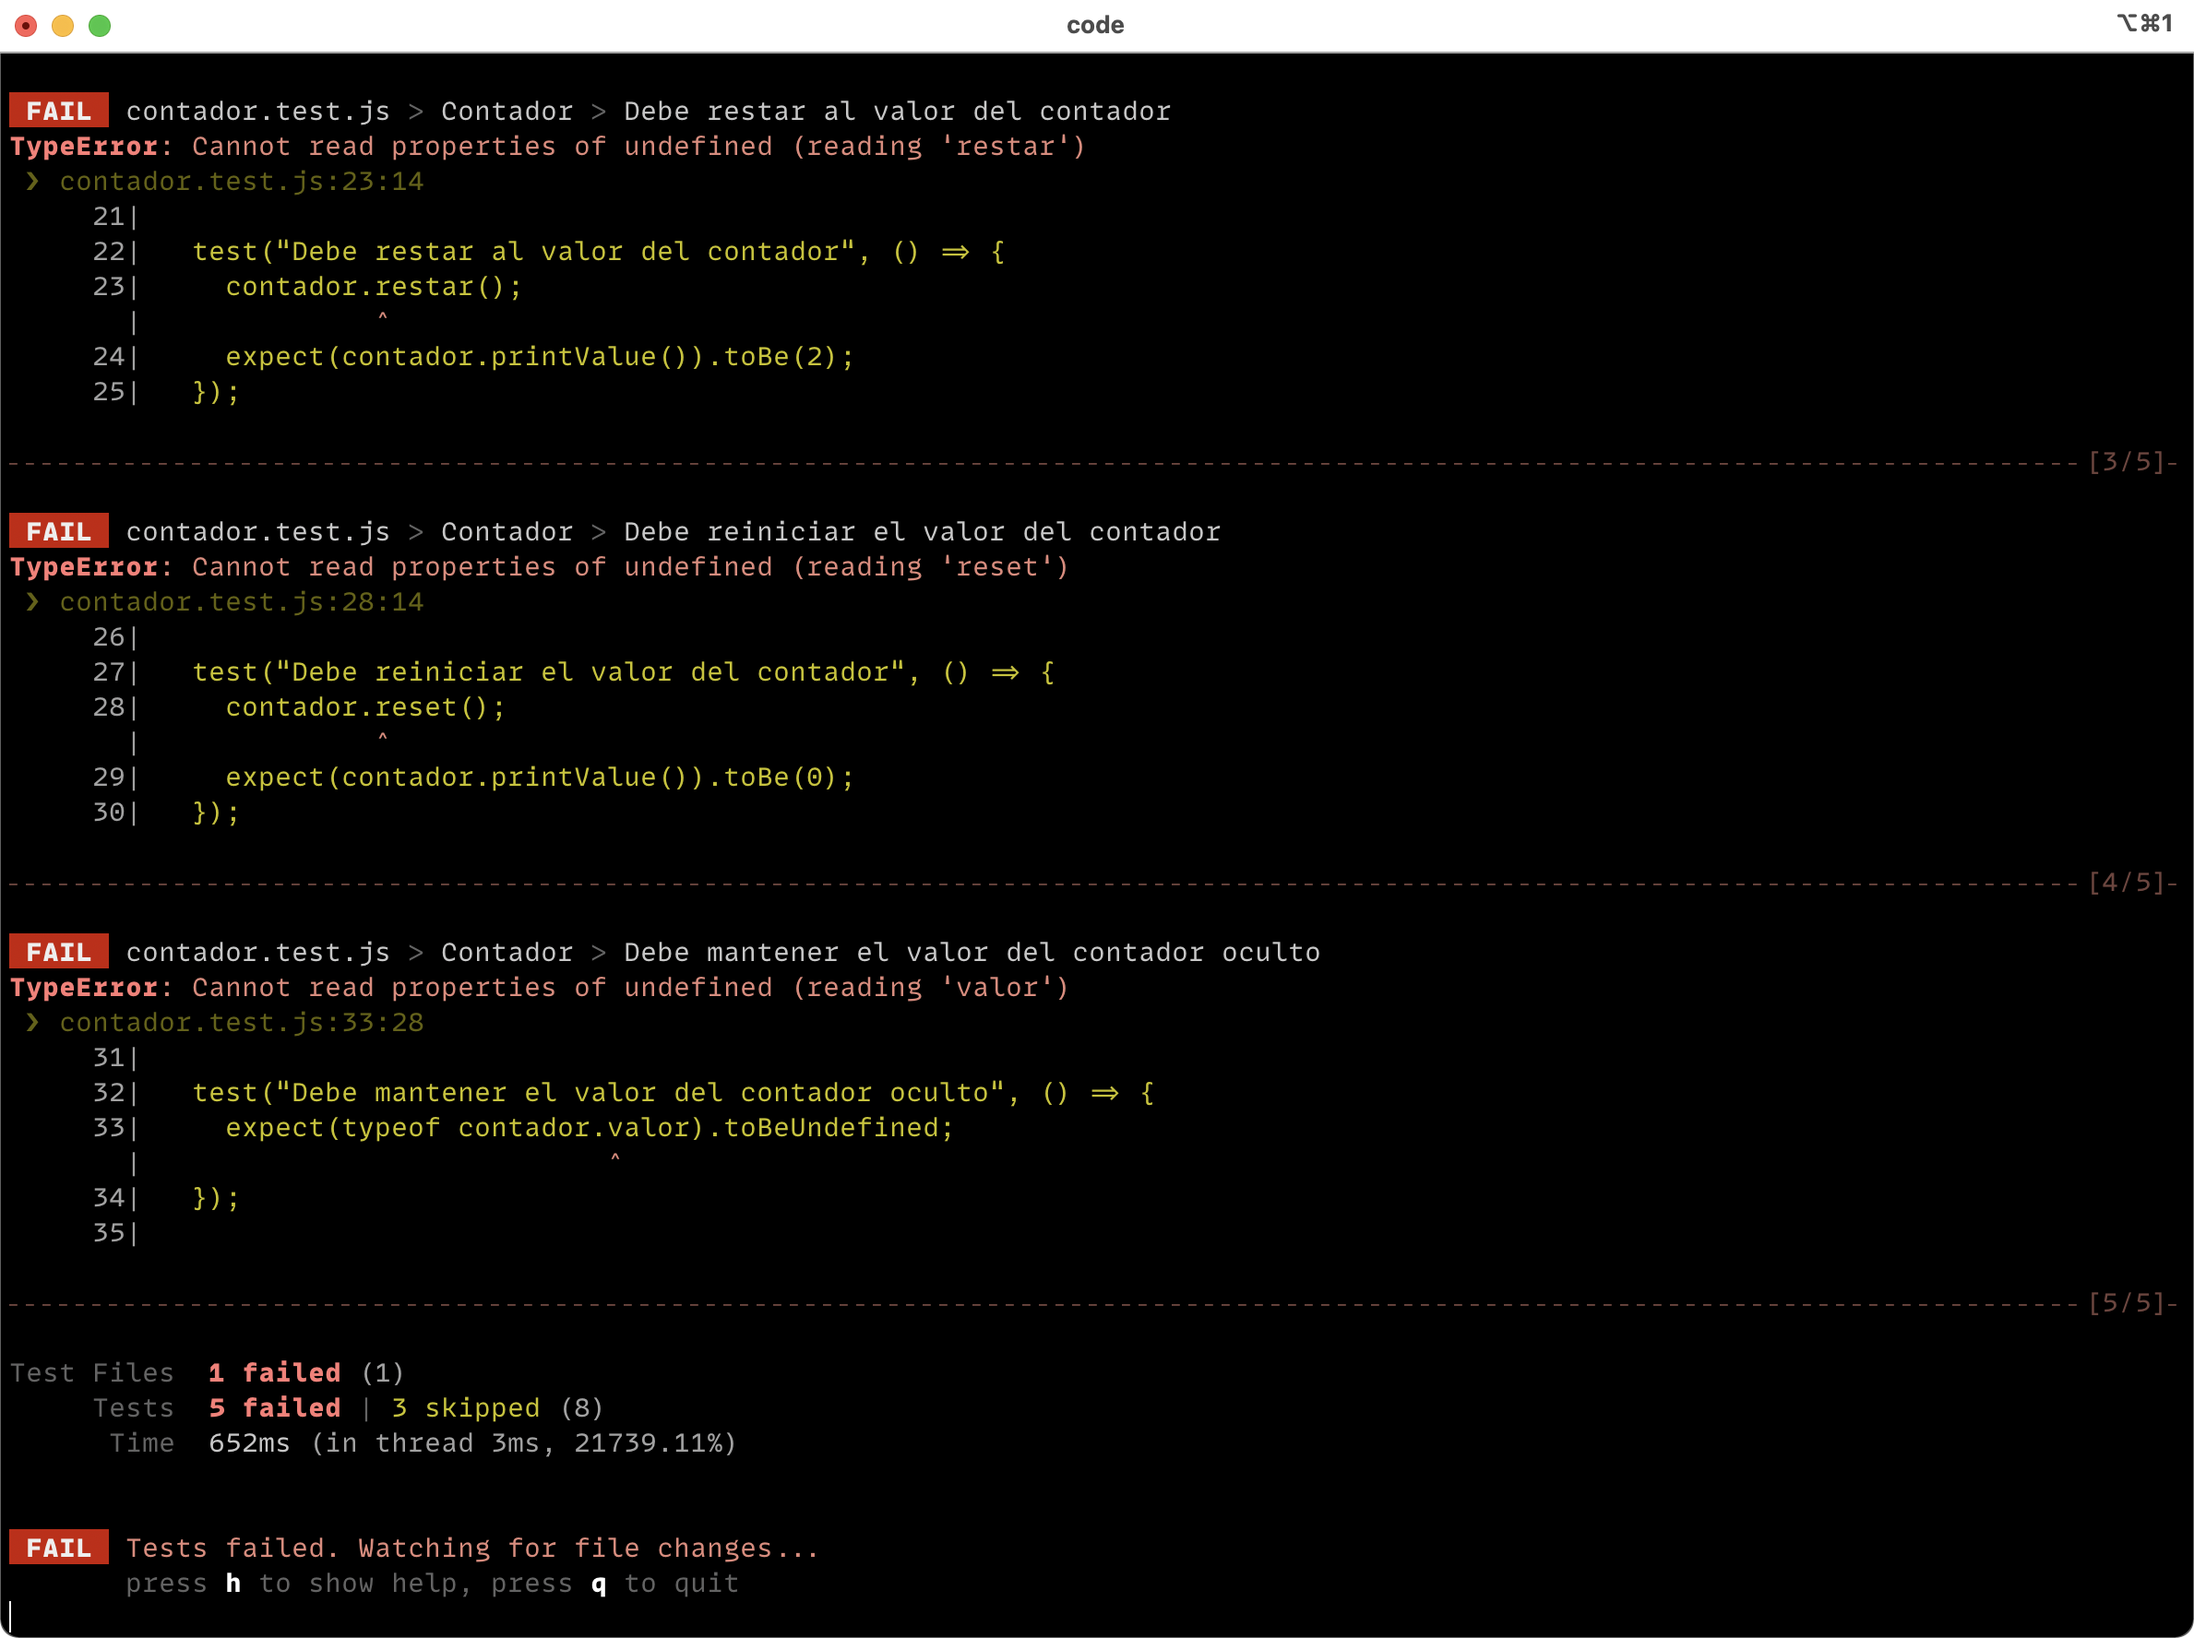
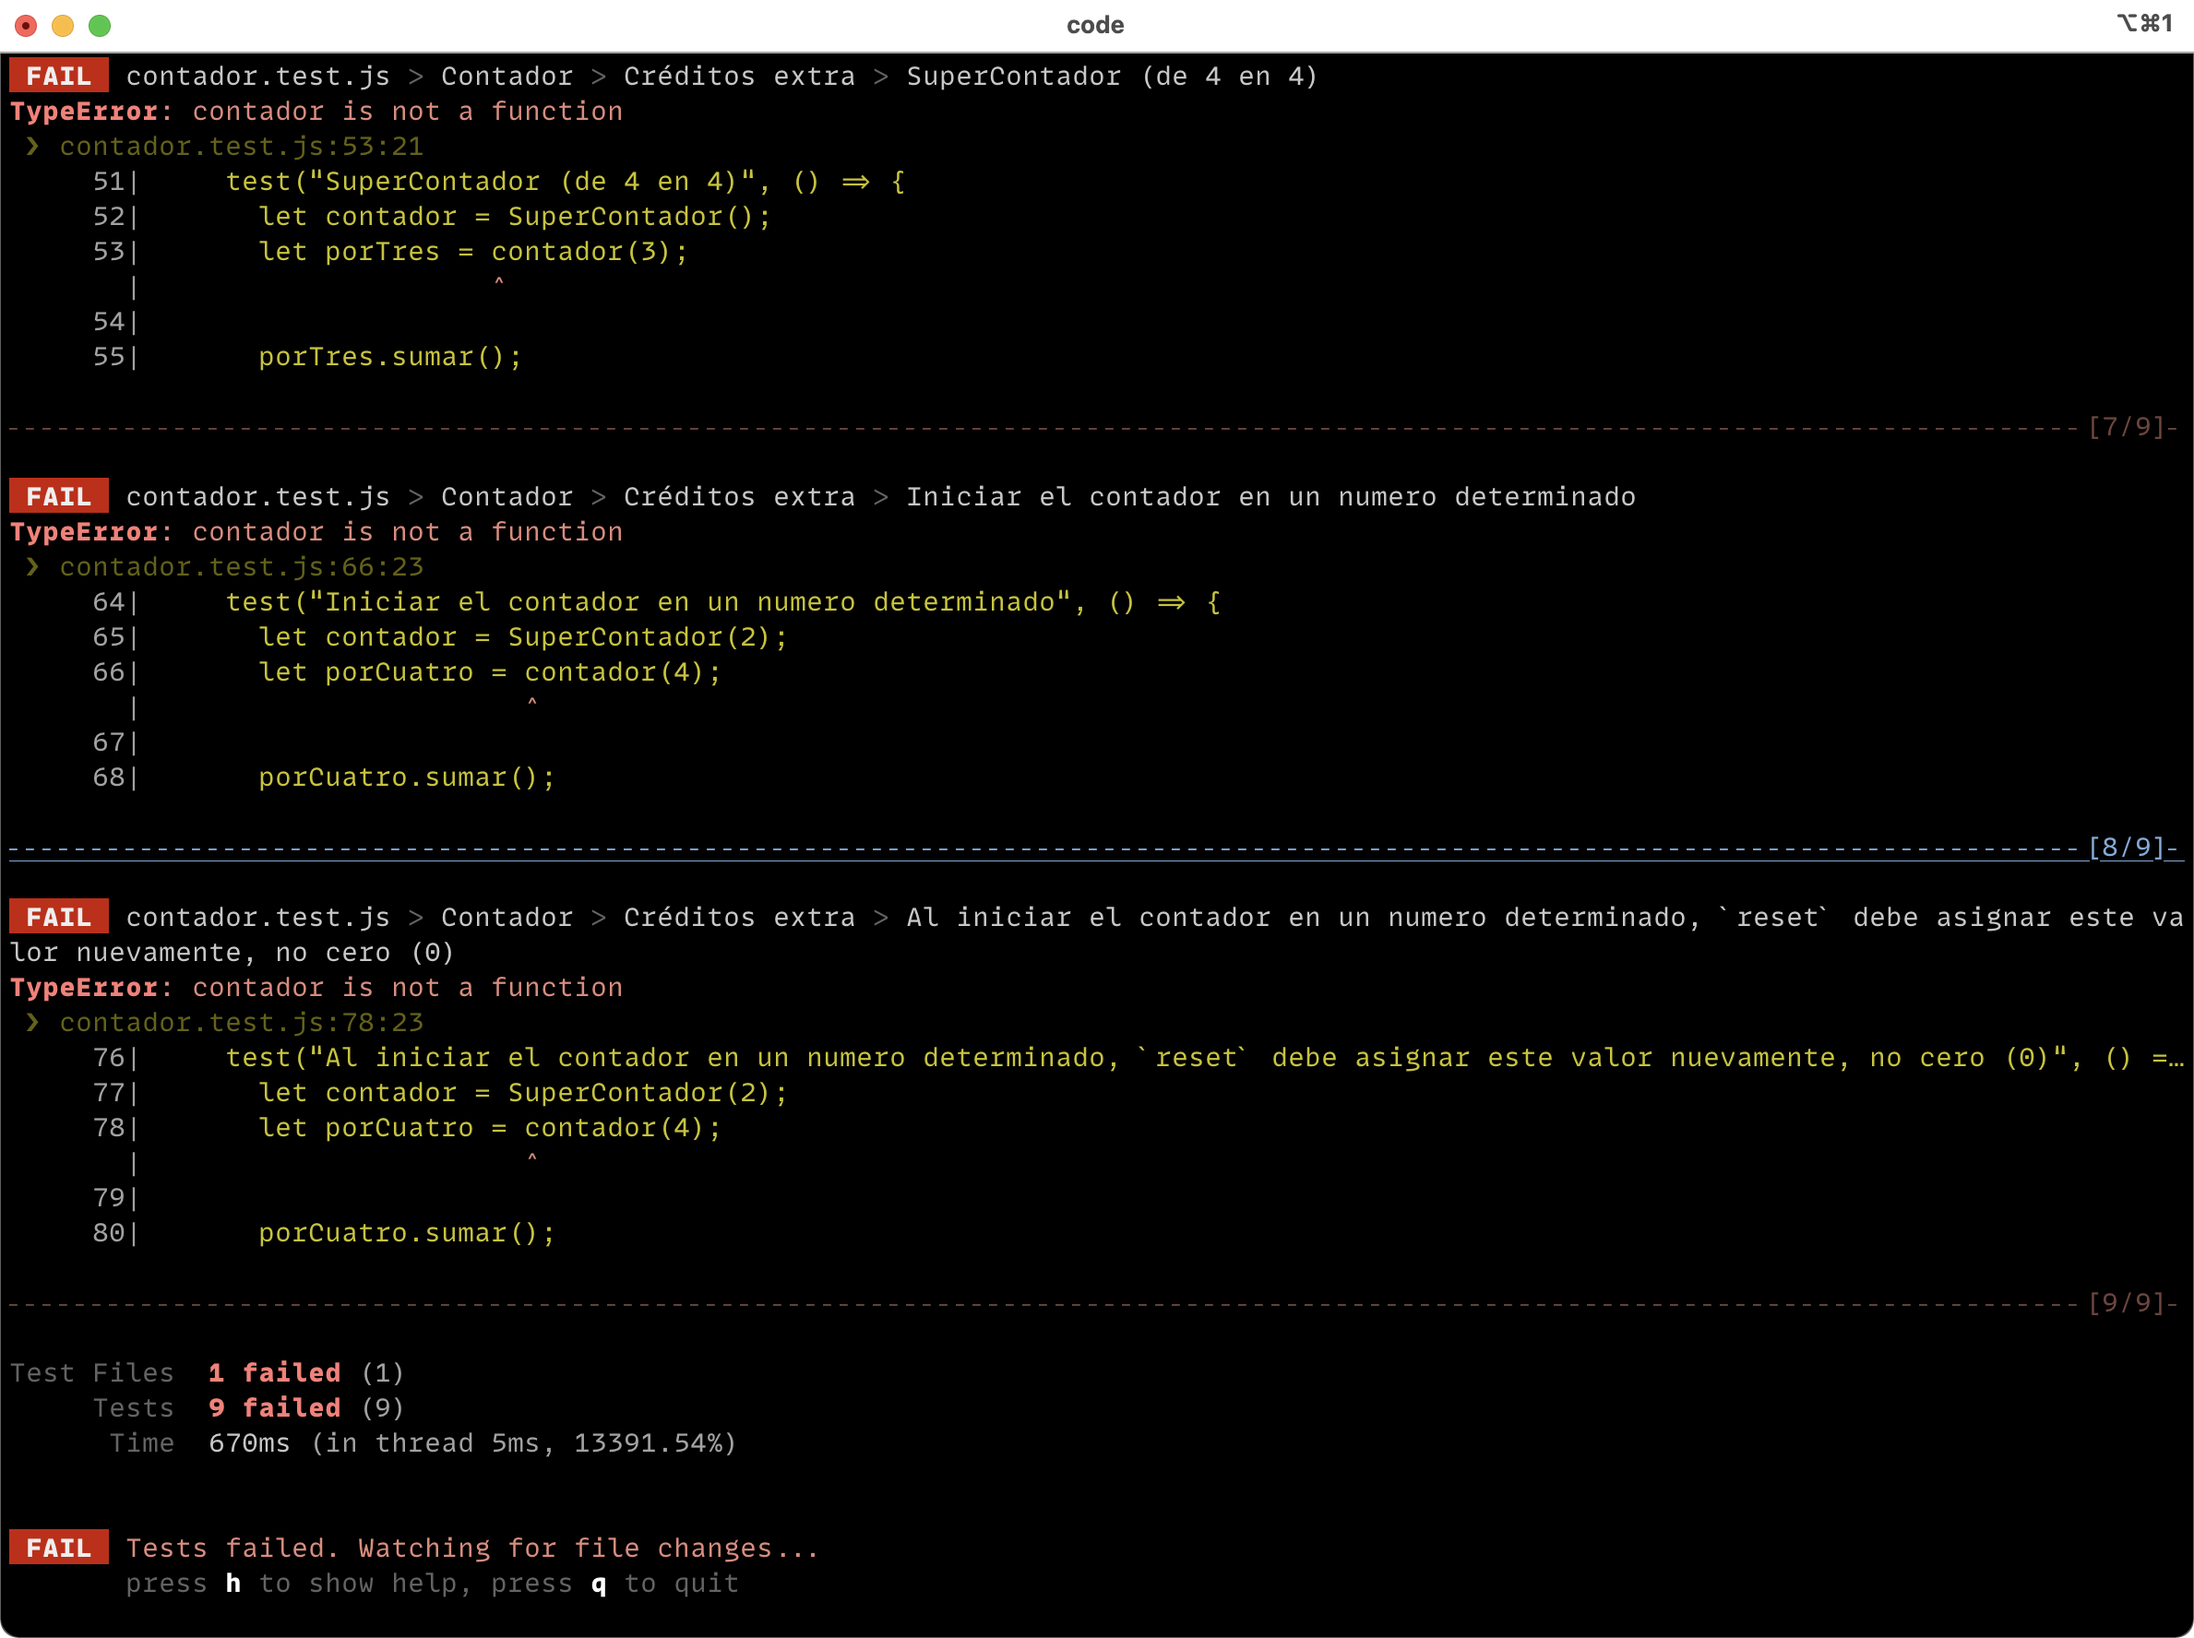
leccion 04

diff --git a/leccion04/contador.test.js b/leccion04/contador.test.js
@@ -35,42 +35,53 @@ describe("Contador", () => {
 
   // Créditos extra
 
-  describe.skip("Créditos extra", () => {
+  describe("Créditos extra", () => {
     test("SuperContador (de 3 en 3)", () => {
-      let porTres = SuperContador(3);
-      let contador = porTres();
+      let contador = SuperContador(0);
+      let porTres = contador(3);
 
-      contador.sumar();
-      contador.sumar();
-      contador.sumar();
-      contador.restar();
+      porTres.sumar();
+      porTres.sumar();
+      porTres.sumar();
+      porTres.restar();
 
-      expect(contador.printValue()).toBe(6);
+      expect(porTres.printValue()).toBe(6);
     });
 
     test("SuperContador (de 4 en 4)", () => {
-      let porCuatro = SuperContador(4);
-      let contador = porCuatro();
+      let contador = SuperContador();
+      let porTres = contador(3);
 
-      contador.sumar();
-      contador.reset();
-      contador.sumar();
-      contador.sumar();
-      contador.restar();
+      porTres.sumar();
+      porTres.reset();
+      porTres.sumar();
+      porTres.sumar();
+      porTres.restar();
 
-      expect(contador.printValue()).toBe(4);
+      expect(porTres.printValue()).toBe(3);
     });
 
     test("Iniciar el contador en un numero determinado", () => {
-      let porCuatro = SuperContador(4);
-      let contador = porCuatro(2);
+      let contador = SuperContador(2);
+      let porCuatro = contador(4);
 
-      contador.sumar();
-      contador.sumar();
-      contador.sumar();
-      contador.restar();
+      porCuatro.sumar();
+      porCuatro.sumar();
+      porCuatro.sumar();
+      porCuatro.restar();
 
-      expect(contador.printValue()).toBe(10);
+      expect(porCuatro.printValue()).toBe(10);
+    });
+
+    test("Al iniciar el contador en un numero determinado, `reset` debe asignar este valor nuevamente, no cero (0)", () => {
+      let contador = SuperContador(2);
+      let porCuatro = contador(4);
+
+      porCuatro.sumar();
+      porCuatro.sumar();
+      porCuatro.reset();
+
+      expect(porCuatro.printValue()).toBe(2);
     });
   });
 });

diff --git a/leccion04/contador-extra.js b/leccion04/contador-extra.js
@@ -2,13 +2,13 @@ export function Contador() {
 
   /**
    * 
-   * El contador debe tener un sitio en donde guarde el valor de sí mismo. Necesitamos una variable.
+   * 1. El contador debe tener un sitio en donde guarde el valor de sí mismo. Necesitamos una variable.
    * 
    * Debemos devolver de esta funcion 4 funciones para poder operar con el contador:
-   * - sumar: aumenta por 1 el contador
-   * - restar: disminuye por 1 el contador
-   * - reset: fija el contador a cero (0)
-   * - printValue: devuelve el valor actual del contador
+   * - 2. sumar: aumenta por 1 el contador
+   * - 3. restar: disminuye por 1 el contador
+   * - 4. reset: fija el contador a cero (0)
+   * - 5. printValue: devuelve el valor actual del contador
    * 
    */
   // 
@@ -20,15 +20,15 @@ export function Contador() {
   //   reset
   // }
 
-  // ====================
-
 }
 
-export function SuperContador() {
+export function SuperContador(valorInicial = 0) {
   /**
    * Créditos extra
    * 
-   * Como podriamos crear un contador que aumente o disminuya el valor por un numero determinado? ¿Cómo harías para hacer un contador que vaya de 3 en 3?
+   * 6. Cómo podriamos crear un contador que aumente o disminuya el valor por un numero determinado? ¿Cómo harías para hacer un contador que vaya de 3 en 3?
+   * 7. Y si quisieramos que el contador empieze por otro valor distinto a cero?
    */
-  // ...
+
+  // HINT: Mira que `SuperContador` tiene definido una variable de entrada... qué crees que puedes hacer con ella?
 }

diff --git a/leccion04/contador.js b/leccion04/contador.js
@@ -2,13 +2,13 @@ export function Contador() {
 
   /**
    * 
-   * El contador debe tener un sitio en donde guarde el valor de sí mismo. Necesitamos una variable.
+   * 1. El contador debe tener un sitio en donde guarde el valor de sí mismo. Necesitamos una variable.
    * 
    * Debemos devolver de esta funcion 4 funciones para poder operar con el contador:
-   * - sumar: aumenta por 1 el contador
-   * - restar: disminuye por 1 el contador
-   * - reset: fija el contador a cero (0)
-   * - printValue: devuelve el valor actual del contador
+   * - 2. sumar: aumenta por 1 el contador
+   * - 3. restar: disminuye por 1 el contador
+   * - 4. reset: fija el contador a cero (0)
+   * - 5. printValue: devuelve el valor actual del contador
    * 
    */
   // 
@@ -22,13 +22,4 @@ export function Contador() {
 
   // ====================
 
-}
-
-export function SuperContador() {
-  /**
-   * Créditos extra
-   * 
-   * Como podriamos crear un contador que aumente o disminuya el valor por un numero determinado? ¿Cómo harías para hacer un contador que vaya de 3 en 3?
-   */
-  // ...
 }

diff --git a/leccion04/contador-extra-final.js b/leccion04/contador-extra-final.js
@@ -1,6 +1,31 @@
 function Contador(paso = 1) {
 
+  let valor = 0
 
+  return {
+    sumar,
+    restar,
+    printValue,
+    reset
+  }
+
+  // ====================
+
+  function sumar() {
+    valor += paso
+  }
+
+  function restar() {
+    valor -= paso
+  }
+
+  function reset() {
+    valor = valorInicial
+  }
+
+  function printValue() {
+    return valor
+  }
 }
 
 /**
@@ -10,36 +35,8 @@ function Contador(paso = 1) {
    */
 // ...
 
-export function SuperContador(paso = 1) {
+export function SuperContador(valorInicial = 0) {
 
-  return function Contador(valorInicial = 0) {
-
-    let valor = valorInicial
-
-    return {
-      sumar,
-      restar,
-      printValue,
-      reset
-    }
-
-    // ====================
-
-    function sumar() {
-      valor += paso
-    }
-
-    function restar() {
-      valor -= paso
-    }
-
-    function reset() {
-      valor = 0
-    }
-
-    function printValue() {
-      return valor
-    }
-  }
+  // ...
 
 }

diff --git a/leccion04/readme.md b/leccion04/readme.md
@@ -4,16 +4,51 @@
 
 # 🐾 Primeros pasos
 
+Closures es uno de los conceptos más fundamentales de JavaScript. Conocerlo bien y saber identificarlo será escencial para tu carrera como programador.
+
 ### 🎯Objetivos
 
 ### 🏋♂Ejercicios
 
-- implementamos un `contador`
+En este Ejercicio, implementaremos un `contador`. Este contador es especial ya que define unos métodos especiales para sumar, restar, reset y acceder al valor (printValue).
+
+## Configuración de la lección
+
+Es requerido tener instalado una versión de `node` superior a `15.x`. Puedes instalarla [directamente](https://docs.npmjs.com/downloading-and-installing-node-js-and-npm) o puedes cambiar a una version igual o mayour [usando nvm](https://github.com/nvm-sh/nvm#installing-and-updating).
+
+Debes instalar [pnpm](https://pnpm.io/) para que tengas menos problemas ejecutando los ejercicios. Puedes seguir los pasos para instalarlo en tu sistema [aquí](https://pnpm.io/installation)
+
+```bash
+git clone <REPO>
+cd leccion04
+pnpm install
+```
+
+Para poder empezar con el ejercicio, necesitas ejecutar el siguiente comando:
+
+```bash
+pnpm start
+```
+
+Verás un montón de tests fallidos en la consola:
+
+![muestra de tests fallidos](assets/tests-fallidos.png)
+
+Ahora puedes abrir el archivo [`./contador.js`](contador.js) y empezar a implementar la funcion `Contador` siguiento las siguientes instrucciones
+
+## Instrucciones
+
+- [ ] 1. El contador debe tener un sitio en donde guarde el valor de sí mismo. Necesitamos una variable.
+- [ ] 2. Implementar `sumar`: aumenta por 1 el contador
+- [ ] 3. restar: disminuye por 1 el contador
+- [ ] 4. reset: fija el contador a cero (0)
+- [ ] 5. printValue: devuelve el valor actual del contador
 
 ### 🍬 Crédito Extra
+
+- [ ] 6. Cómo podriamos crear un contador que aumente o disminuya el valor por un numero determinado? ¿Cómo harías para hacer un contador que vaya de 3 en 3?
+- [ ] 7. Y si quisieramos que el contador empieze por otro valor distinto a cero?
 
 ## 📣 Feedback
 
 Por favor completa [este formulario](https://docs.google.com/forms/d/e/1FAIpQLSf6hxzKdcgkQv6EKjS1AXmGO_Y49Aa86zOpcveI3Xp-ZIHYTg/viewform?usp=pp_url&entry.1972342453={{MI-EMAIL}}&entry.1828471740=leccion-04)
-
-## Recursos
